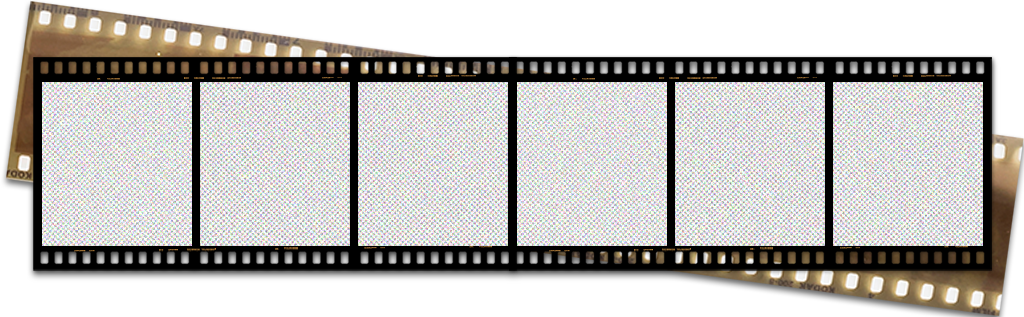
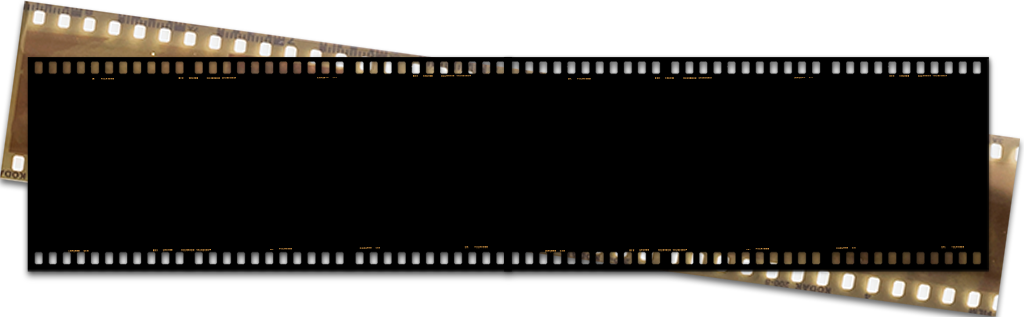
update motion graphic's data, project content

diff --git a/src/data/motion-graphic/brands/lip-on-lip.motion-graphic.data.ts b/src/data/motion-graphic/brands/lip-on-lip.motion-graphic.data.ts
@@ -1,0 +1,28 @@
+import {
+  BRAND_LOGO_URL_PREFIX,
+  GOOGLE_DRIVE_FILE_PREFIX,
+  POST_TYPE_VALUES,
+} from '@/constants';
+import { TBrand } from '@/types';
+import { getGGDriveVideoResourceUrl } from '@/utilities';
+
+export const _lipOnLipBrandData: TBrand = {
+  name: 'Lip On Lip',
+  logoURL: `${BRAND_LOGO_URL_PREFIX}LOL_logo.png`,
+  posts: [
+    {
+      type: POST_TYPE_VALUES.VIDEO,
+      sourceUrl: getGGDriveVideoResourceUrl(
+        '12DXuTTr2u2CEB9paGIK8qV4krGKVdgys'
+      ),
+      thumbnailUrl: `${GOOGLE_DRIVE_FILE_PREFIX}12DXuTTr2u2CEB9paGIK8qV4krGKVdgys`,
+    },
+    {
+      type: POST_TYPE_VALUES.VIDEO,
+      sourceUrl: getGGDriveVideoResourceUrl(
+        '1z4ivYH42c3o4wMQj9JrY2UJ9Lw4xBoFs'
+      ),
+      thumbnailUrl: `${GOOGLE_DRIVE_FILE_PREFIX}1z4ivYH42c3o4wMQj9JrY2UJ9Lw4xBoFs`,
+    },
+  ],
+};

diff --git a/src/data/motion-graphic/brands/index.ts b/src/data/motion-graphic/brands/index.ts
@@ -1,8 +1,10 @@
+import { _lipOnLipBrandData } from './lip-on-lip.motion-graphic.data';
 import { _refreeBrandData } from './refree.motion-graphic.data';
 import { _rmitBrandData } from './rmit.motion-graphic.data';
 import { _sunplayBrandData } from './sunplay.motion-graphic.data';
 
 export {
+  _lipOnLipBrandData,
   _refreeBrandData,
   _rmitBrandData,
   _sunplayBrandData,

diff --git a/src/data/motion-graphic/motion-graphic-project.data.ts b/src/data/motion-graphic/motion-graphic-project.data.ts
@@ -1,6 +1,7 @@
 import { TProject } from '@/types';
 
 import {
+  _lipOnLipBrandData,
   _refreeBrandData,
   _rmitBrandData,
   _sunplayBrandData,
@@ -14,6 +15,7 @@ export const motionGraphicProjectData: TProject = {
   brands: [
     _refreeBrandData,
     _rmitBrandData,
+    _lipOnLipBrandData,
     _sunplayBrandData,
   ],
 };

diff --git a/src/components/ProjectViewer/ProjectContent/VideoThumbnailCard.vue b/src/components/ProjectViewer/ProjectContent/VideoThumbnailCard.vue
@@ -19,7 +19,7 @@ const { currentScaleRatio } = storeToRefs(responsiveStore);
     class="video-thumbnail"
     :style="{
       height: `${27.75 * currentScaleRatio}rem`,
-      width: `${25.6 * currentScaleRatio}rem`,
+      width: `${18.9 * currentScaleRatio}rem`,
       backgroundImage: `url(${thumbnailImageUrl})`,
     }"
   >

diff --git a/src/components/ProjectViewer/ProjectContent/ProjectContentMotionGraphic.vue b/src/components/ProjectViewer/ProjectContent/ProjectContentMotionGraphic.vue
@@ -154,8 +154,7 @@ const {
 
 .video-thumbnails {
   position: absolute;
-  left: 0rem;
-  width: 100%;
+  width: 100vw;
   display: flex;
   justify-content: center;
   align-items: center;
